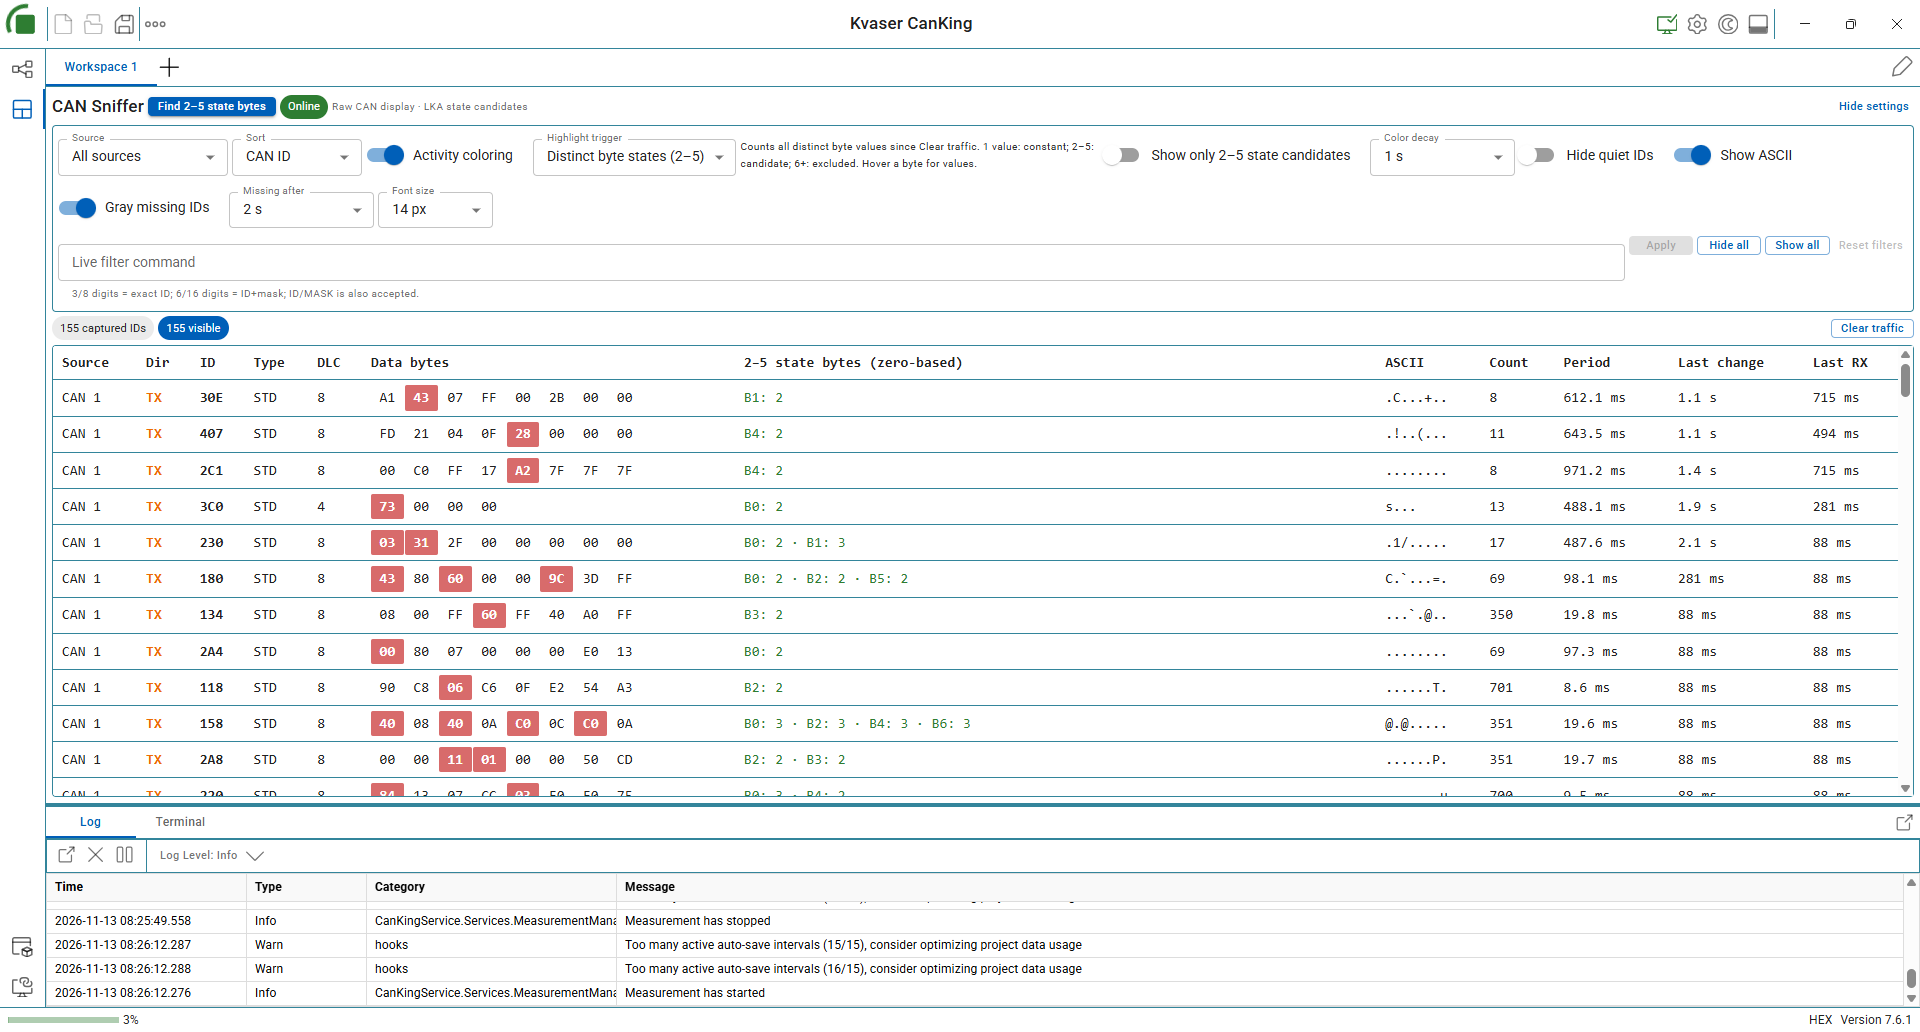
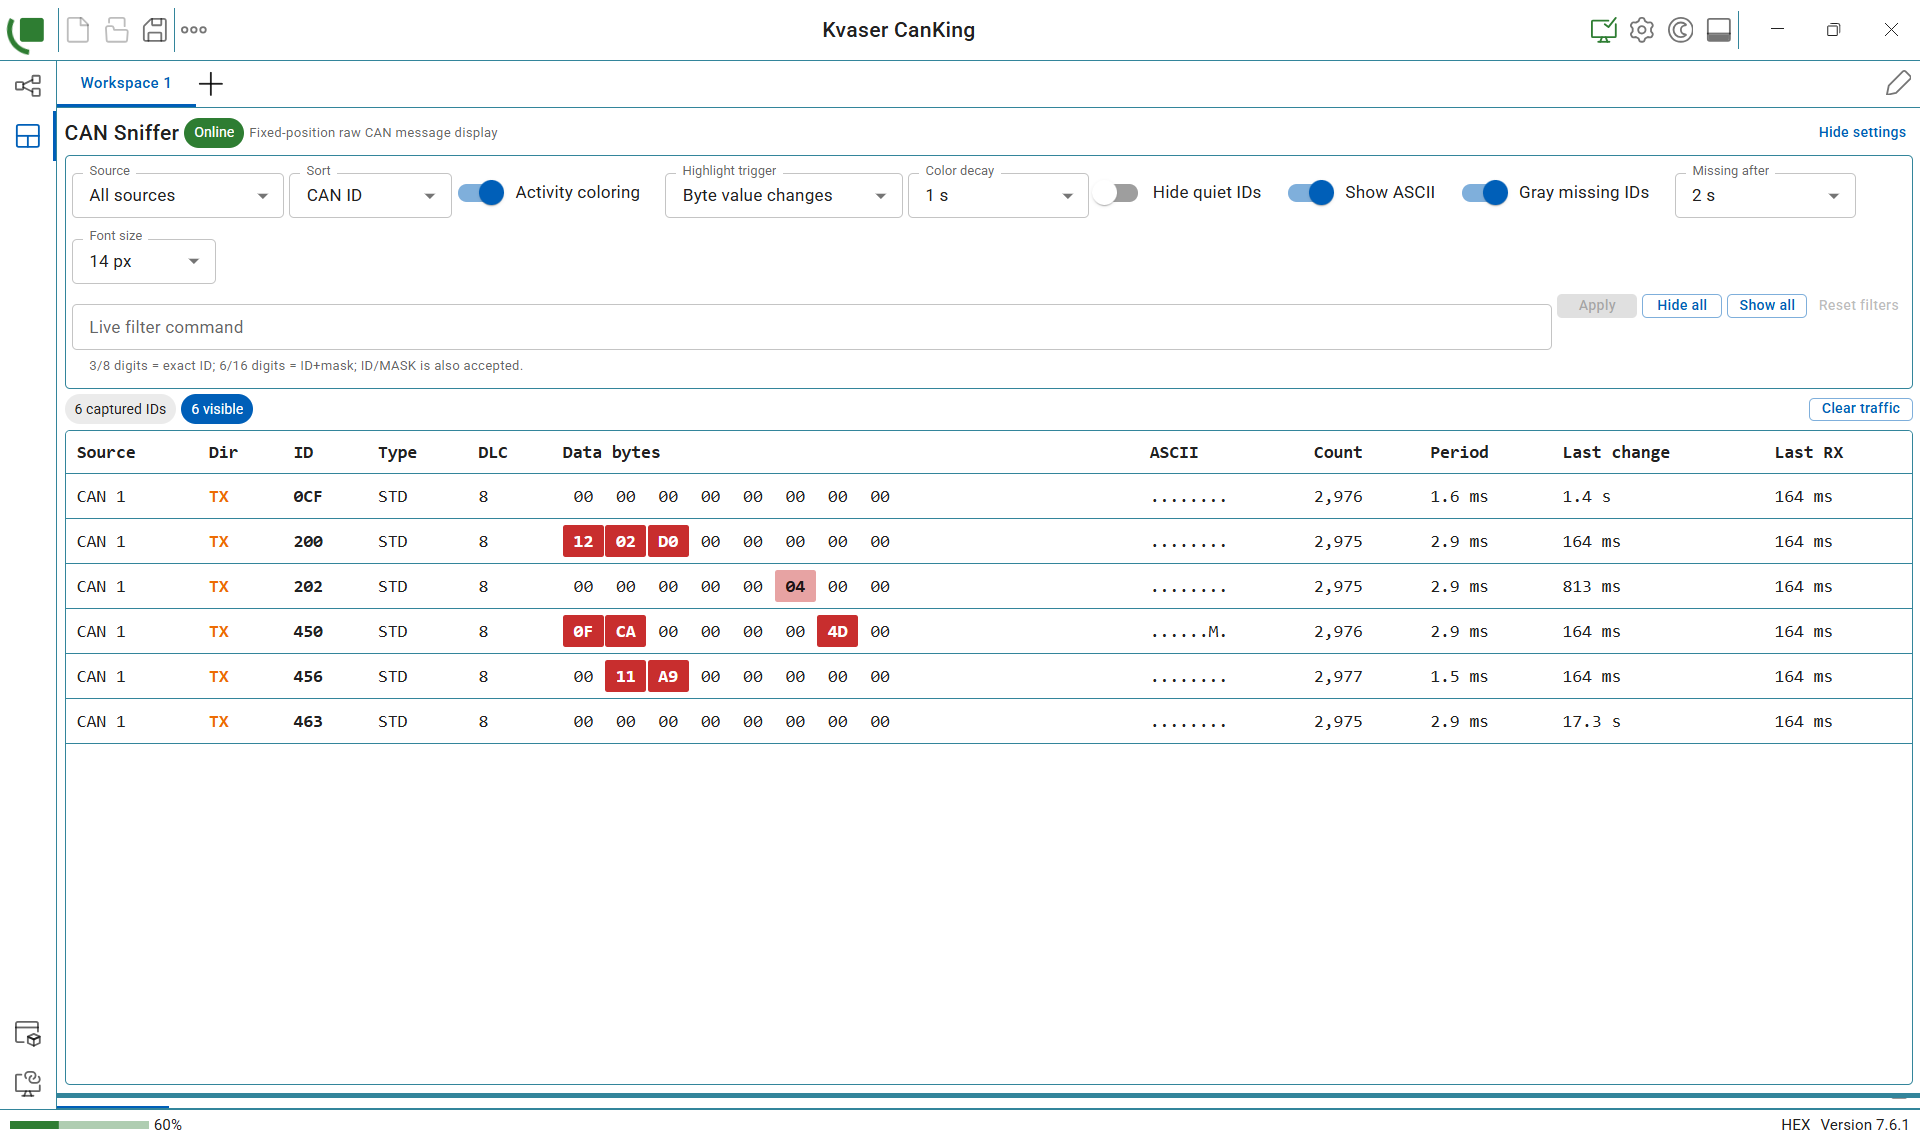
Add files via upload

diff --git a/profile/README.md b/profile/README.md
@@ -20,9 +20,9 @@ Extend your CanKing workflow with tools built by our team. Find installation ins
 
 ### CAN Sniffer
 
-Inspect raw CAN traffic in CanKing with a message table, changing-byte highlighting, and live filtering. Identify bytes with two to five distinct values to help explore possible state signals.
+Monitor raw CAN traffic in CanKing with a fixed-position message display that keeps each CAN ID in a consistent row. Highlight changing data bytes, filter messages by CAN ID, and display ASCII alongside hexadecimal data. Message counts, periods, last-change times, and last-received times help you follow bus activity, while options to hide quiet IDs or gray out missing IDs keep the display focused.
 
-![CAN Sniffer running in Kvaser CanKing, showing CAN message IDs, highlighted data bytes, state-byte candidates, message counts, and timing.](https://raw.githubusercontent.com/Kvaser-Americas/.github/main/profile/assets/can-sniffer.png)
+![CAN Sniffer in CanKing, showing fixed-position CAN message rows, highlighted byte changes, ASCII data, message counts, and timing.](https://raw.githubusercontent.com/Kvaser-Americas/.github/main/profile/assets/can-sniffer.png)
 
 *CAN Sniffer running in CanKing.*
 
